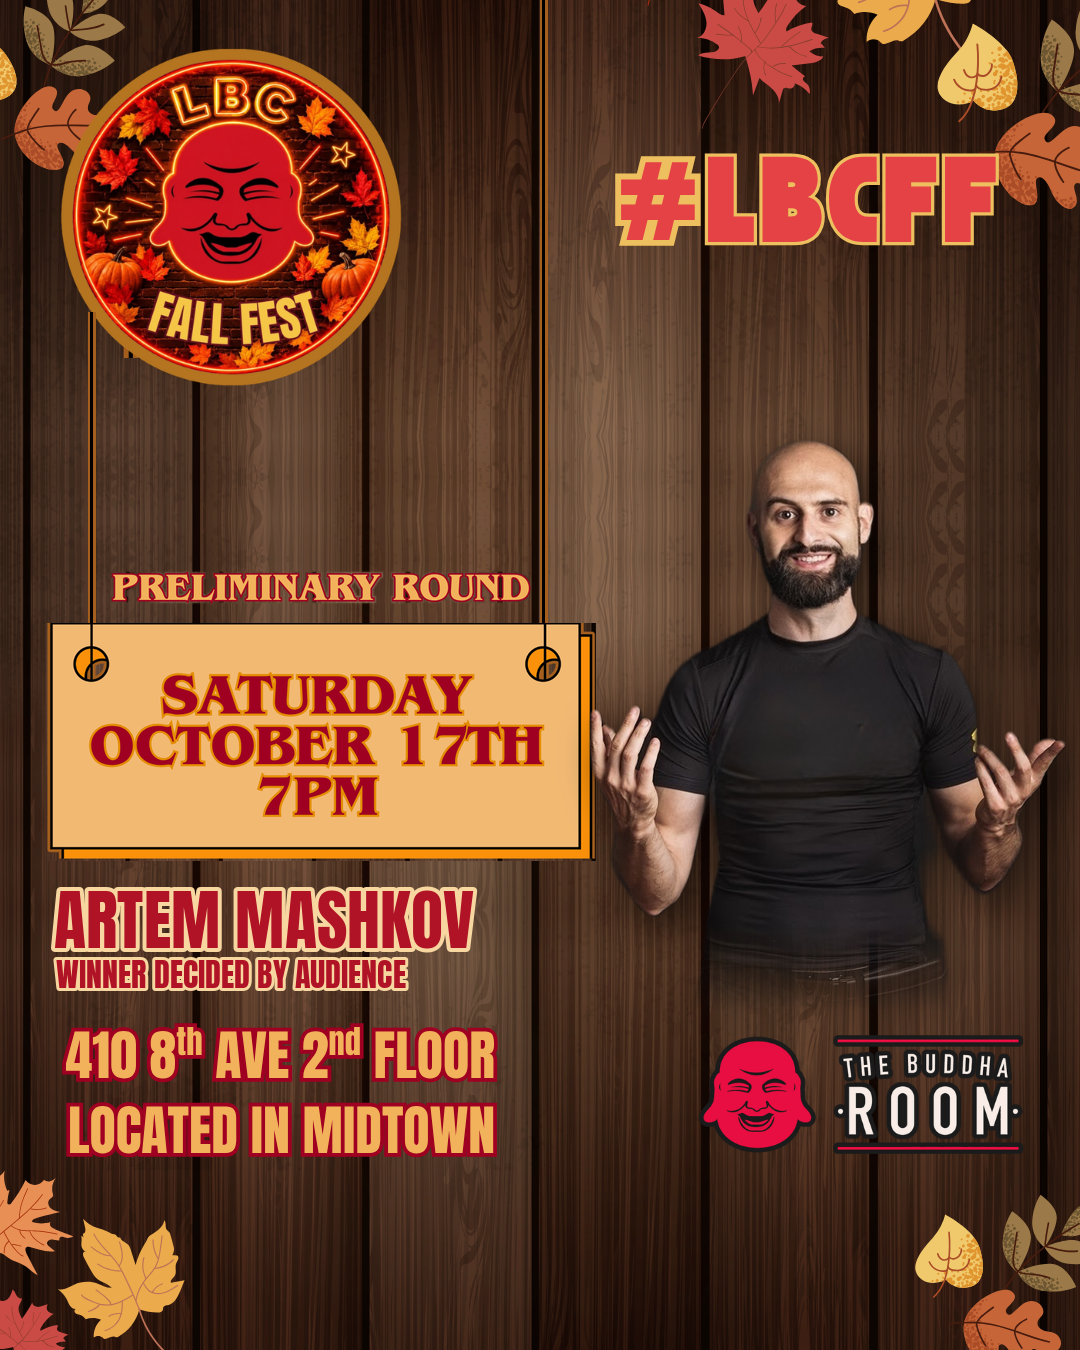
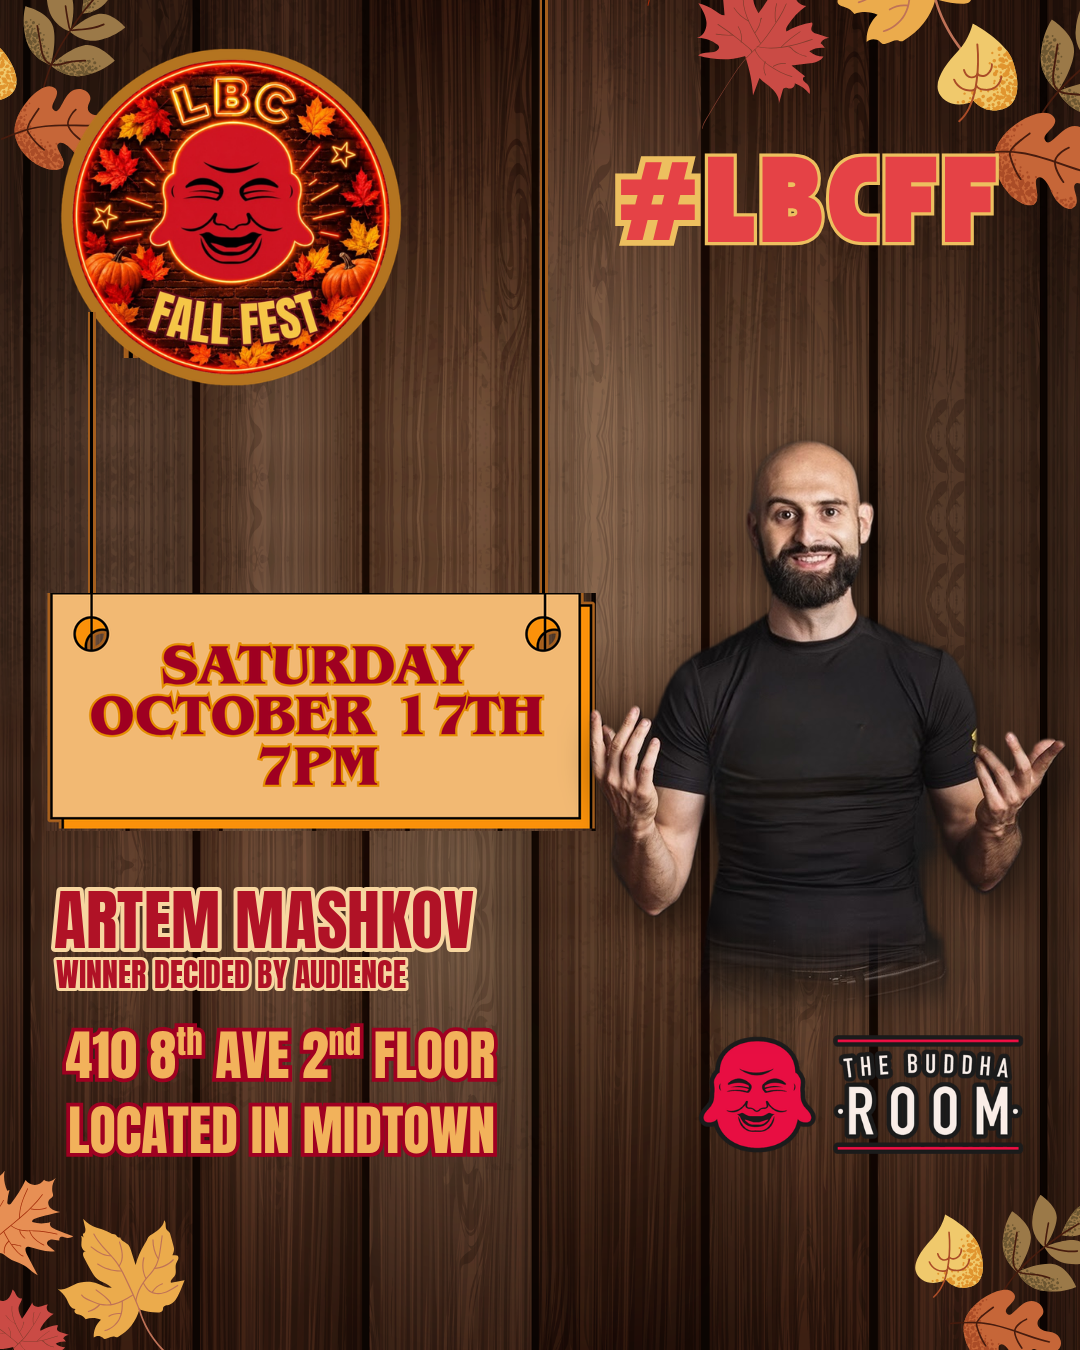
promo: drop 'Preliminary Round' from flyer insert and caption
Claude-Session: https://claude.ai/code/session_011uqaQVvdk5VdkevmHxQqu7

Changed region(s): [[0.0306, 0.4044, 0.55, 0.6533]]

diff --git a/flyer_insert.py b/flyer_insert.py
@@ -160,9 +160,8 @@ def feed():
     c = CLEAN.copy()
     c.paste(wood(BOTTOM_START - TOP_END), (0, TOP_END))
     c = c.convert("RGBA")
-    s, sx, sy = 0.55, 46, 620
+    s, sx, sy = 0.55, 46, 590
     prelim = place_sign(c, s, sx, sy, string_tops=("logo", 0))
-    paste_prelim(c, prelim, sx + round(500 * s), sy - 50)
     person(c, 600, 1080 - 515, 412, fade=90)
     d = ImageDraw.Draw(c)
     outlined(d, (sx + 8, 870), NAME, 66)
@@ -177,13 +176,12 @@ def story():
     c.paste(wood(mid, blend_at=mid - 300), (0, TOP_END))
     c.paste(CLEAN.crop((0, BOTTOM_START, 1080, 1350)), (0, TOP_END + mid))
     c = c.convert("RGBA")
-    s, sx, sy = 0.82, 90, 1210
+    s, sx, sy = 0.82, 90, 1180
     prelim = place_sign(c, s, sx, sy, string_tops=("logo", 248))
     person(c, 730, 1080 // 2 - 317, 290, fade=120)
     d = ImageDraw.Draw(c)
     outlined(d, (540, 960), NAME, 96, anchor="ma")
     outlined(d, (540, 1082), TAGLINE, 44, anchor="ma")
-    paste_prelim(c, prelim, 540, sy - 60)
     return c.convert("RGB")
 
 

diff --git a/captions.md b/captions.md
@@ -18,7 +18,7 @@ Tickets: link in bio 🎟
 
 Back in the LBC Fall Fest 🍂 Last festival I made it to the semifinals and finished 36th out of 400 comics. Let's see how far I can go this time.
 
-Prelims are Saturday, Oct 17 at 7PM at The Buddha Room (410 8th Ave, 2nd floor). The audience picks who moves on, so having you in the room matters. Let me know if you're free that night. Really appreciate the support 🙏
+Saturday, Oct 17 at 7PM at The Buddha Room (410 8th Ave, 2nd floor). The audience picks who moves on, so having you in the room matters. Let me know if you're free that night. Really appreciate the support 🙏
 
 Like or DM me if you can come. Tickets: link in bio 🎟
 
